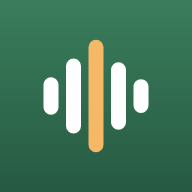
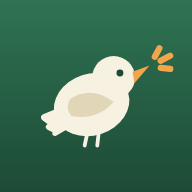
こえログ v1.1.1: アイコンをさえずる小鳥の絵に変える

Changed region(s): [[0.1875, 0.1875, 0.7812, 0.8125], [0.7812, 0.2188, 0.9062, 0.375]]

diff --git a/koe/sw.js b/koe/sw.js
@@ -1,7 +1,7 @@
 // こえログ: 圏外でも開けるように、アプリの画面と地図の絵を端末に保存する
 // 保存庫の名前は必ず 'koelog-' で始める（同じサイトの鳥類調査記録アプリの保存庫に触らない・触られないため）
 // AI の部品（koelog-ai-app-*）と AI 本体（birdnet-ai-model-*）は画面側が管理する。ここでは扱わない
-const CACHE = 'koelog-v2';
+const CACHE = 'koelog-v3';
 const TILE_CACHE = 'koelog-tiles-v1';
 const TILE_MAX = 3000;
 const SHELL = ['./', './index.html', './manifest.json', './icon-192.png', './icon-512.png', './apple-touch-icon.png', './leaflet.js', './leaflet.css'];

diff --git a/koe/index.html b/koe/index.html
@@ -278,7 +278,7 @@ main{max-width:640px;margin:0 auto;padding:0 16px calc(var(--tabh) + var(--sb) +
    鳥調査アプリ（bird_survey.html）の鳴き声AI（v247 時点）を切り出したもの。
    AI: BirdNET v2.4（端末の中だけで判定。音も記録もどこにも送らない）
    ===================================================================== */
-const APP_VERSION='1.1.0';
+const APP_VERSION='1.1.1';
 
 /* ---------- 定数 ---------- */
 const SR=48000, WIN=144000;          // 3秒区間（AIの入力）
